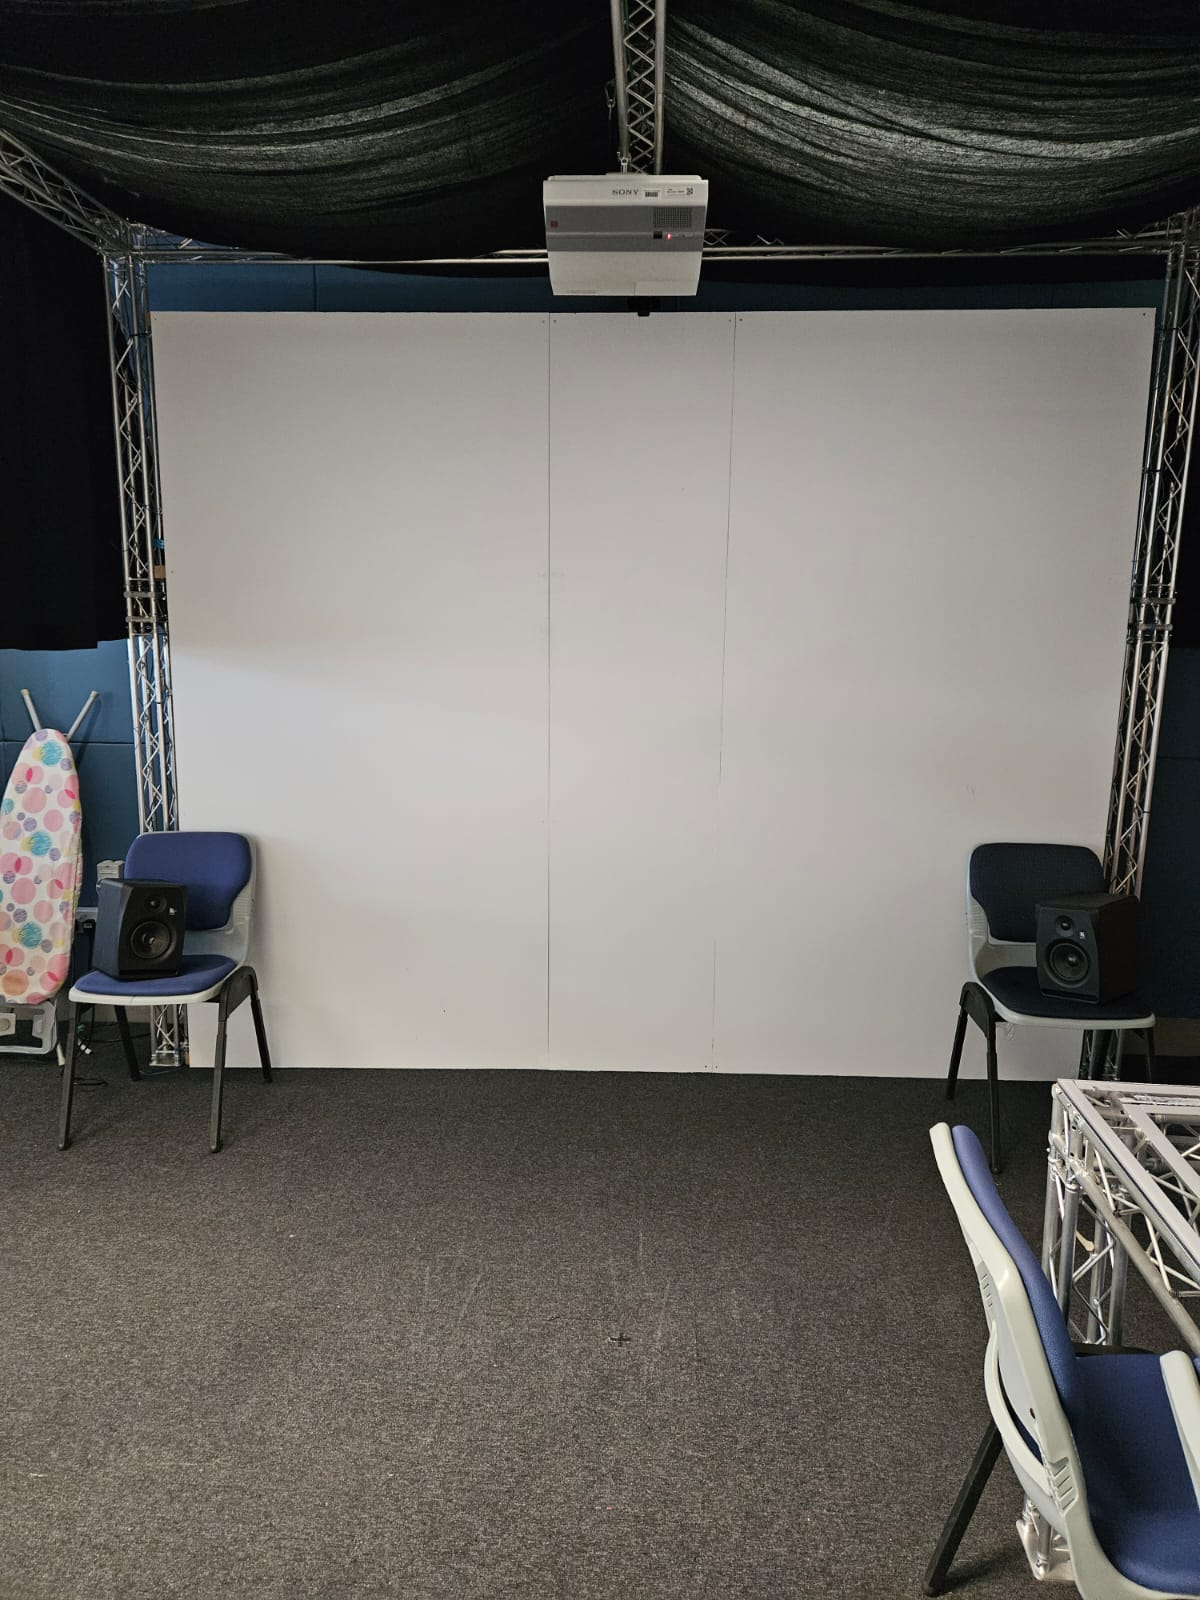
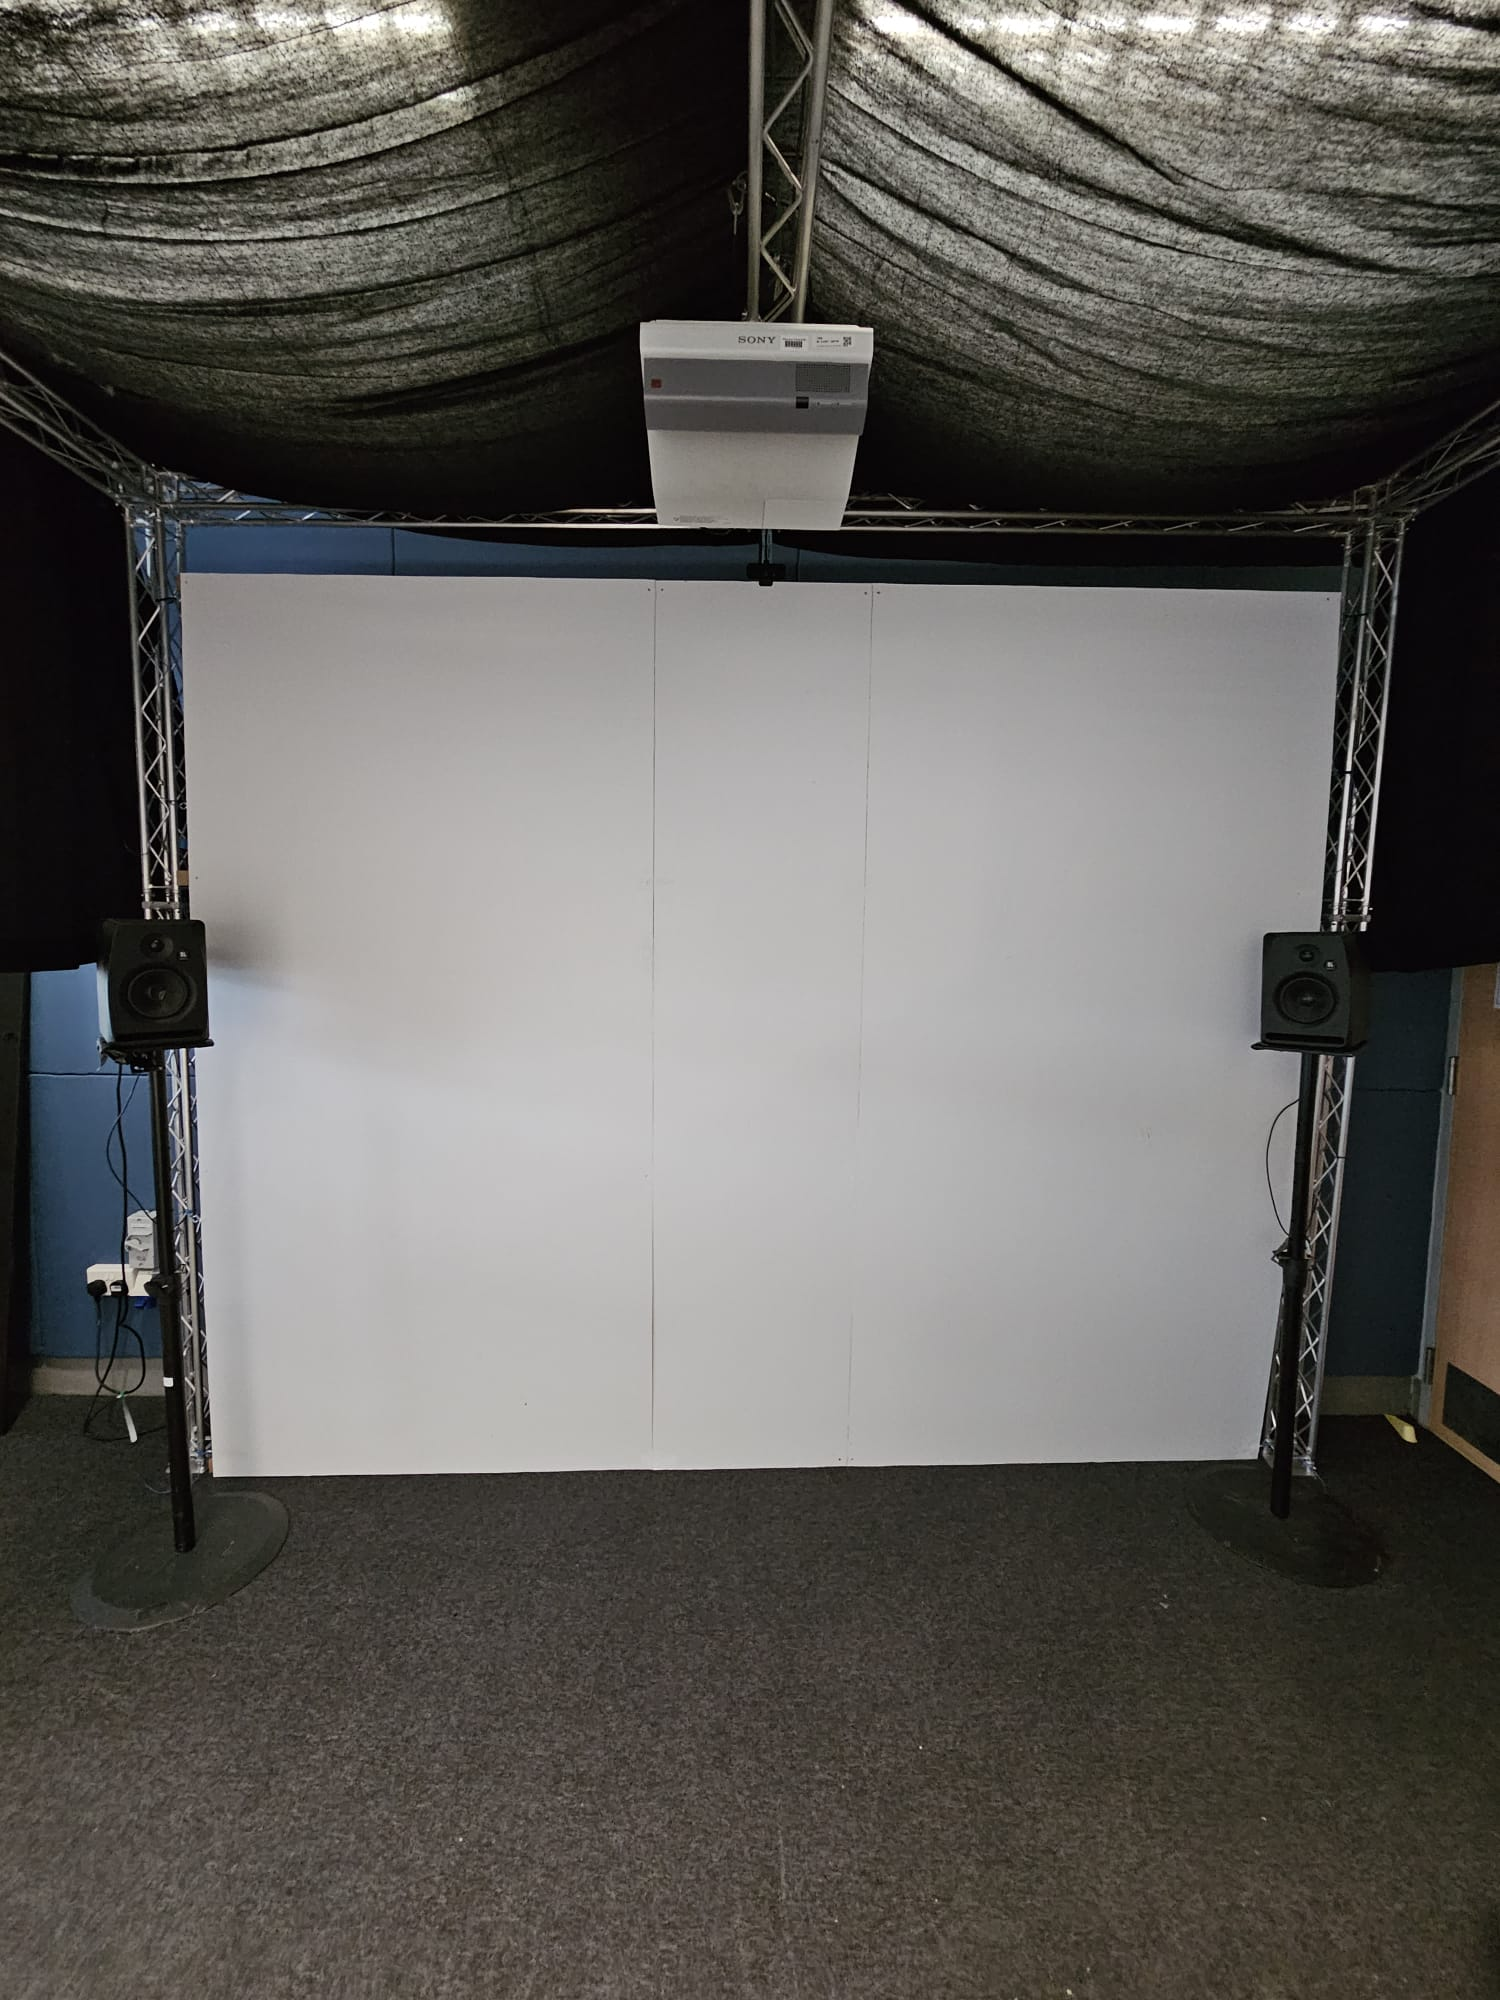
changed audio setup photo

diff --git a/README.md b/README.md
@@ -42,6 +42,6 @@ Sequence setup inside pandora box.
 Tcp connection setup in the widget designer for the raspberry pi to communicate with the pandora box.
 
 # Audio Setup
-![label](images/audio%20setup.jpg)
+[label](images/audio%20setup.jpg)
 This the type of cable used
 ![label](images/type%20of%20cable.jpg)
